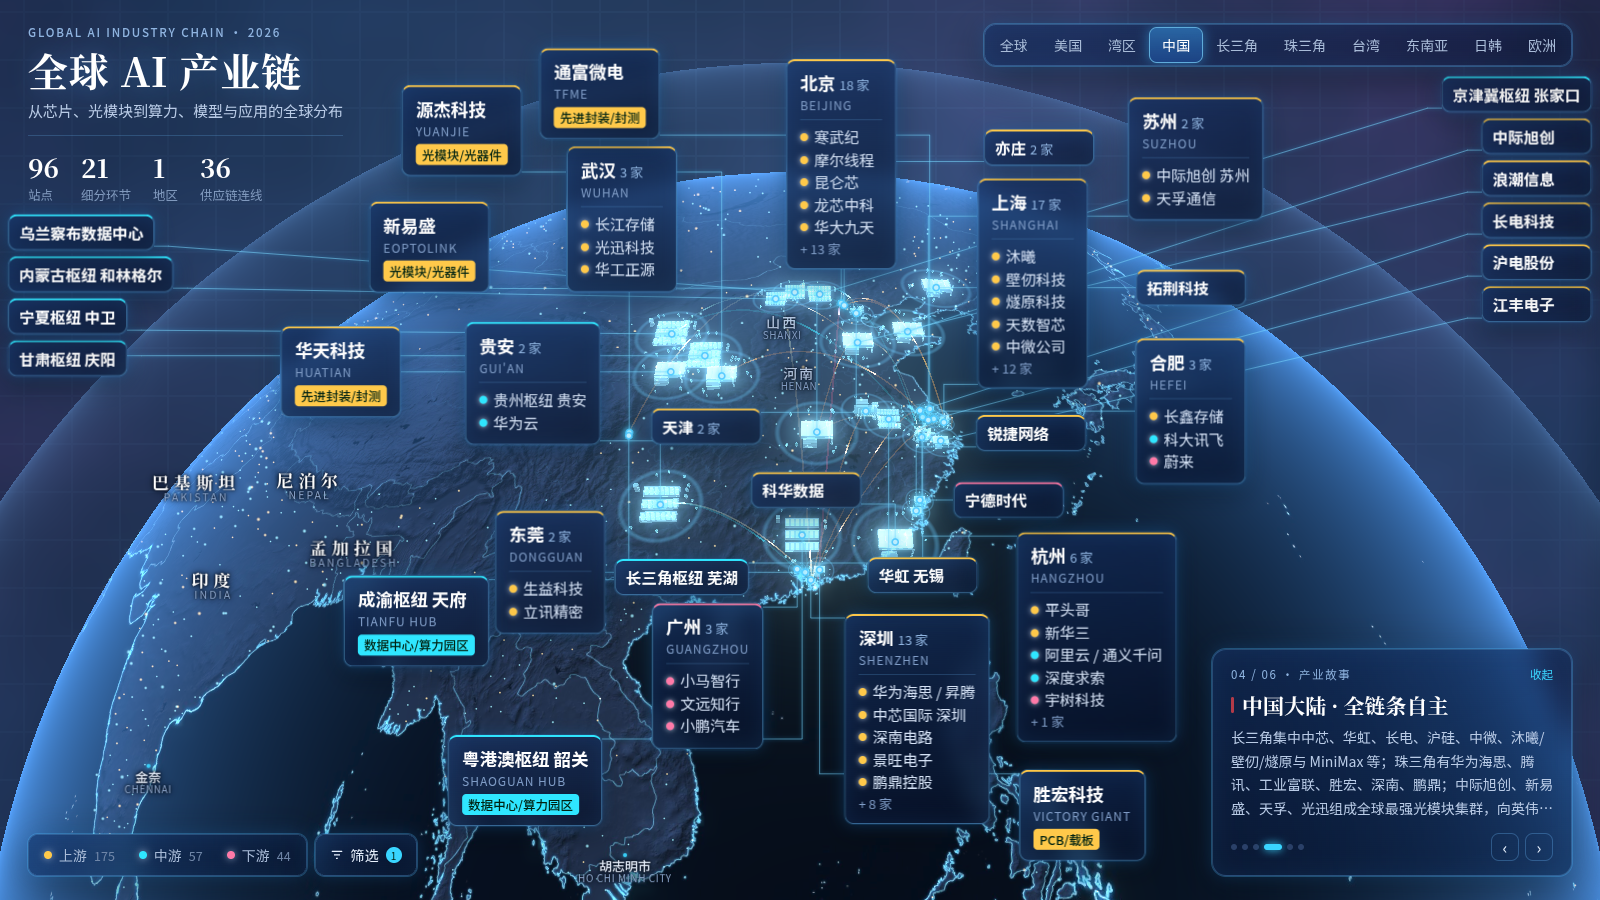
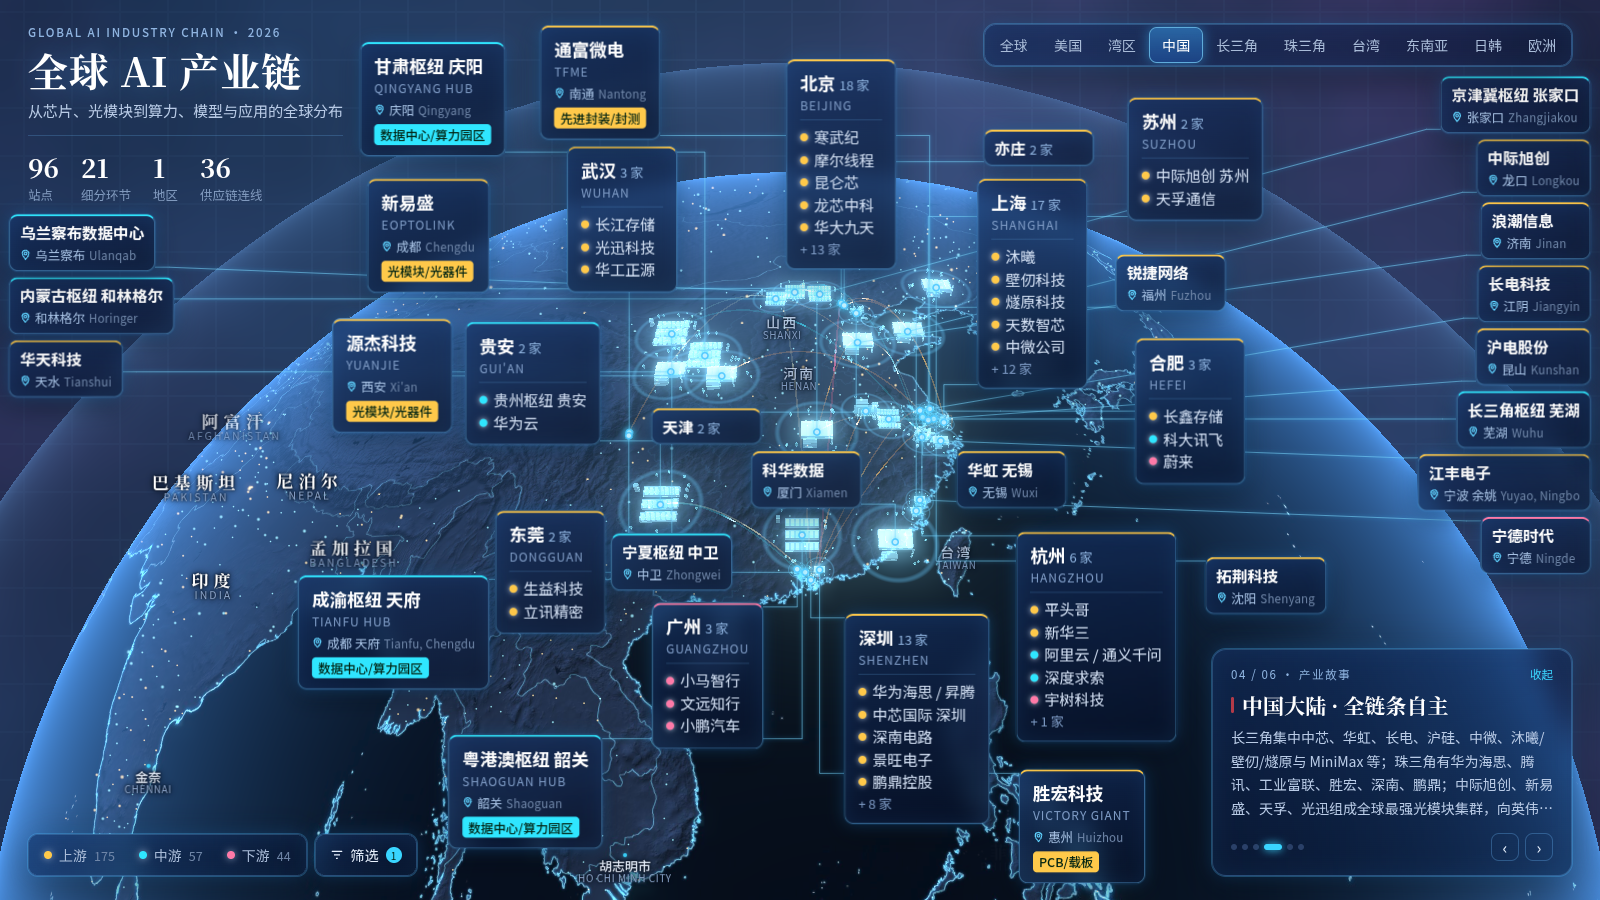
单公司卡片增加城市副标题（定位图标 + 中英文城市名），补全全部城市英文名

diff --git a/index.html b/index.html
@@ -174,6 +174,9 @@ body.drill #story{opacity:0!important;pointer-events:none}
 .pl.dl .z{color:#9fe6ff;font-size:13px;letter-spacing:.08em}.pl.dl::before{display:none}
 @media(max-width:760px){#cityPanel{left:0;right:0;top:auto;bottom:0;width:auto;max-height:30vh;border-radius:16px 16px 0 0;transform:translateY(20px)}body.drill #title{opacity:0!important}.cl.cmp{max-width:178px}.cl.cmp .h{overflow:hidden;text-overflow:ellipsis}
  body.drill #flyBtns,body.drill #dock{opacity:0!important;pointer-events:none}#cityPanel h3{font-size:20px}}
+.cl .ct{display:flex;align-items:center;gap:4px;font-size:12.5px;color:#A9C4E6;margin-top:4px;white-space:nowrap}.cl .ct span{font-size:11.5px;color:#6F86A8;letter-spacing:.02em}.cl .ct .pin{color:#5fd2ff;flex:none}
+.cl.cmp .ct{display:flex;margin-top:2px}
+#lbl .cl svg.pin{width:11px;height:11px}
 </style>
 
 </head>
@@ -460,8 +463,11 @@ function addRegionGroups(){Object.keys(REG).forEach(rg=>{const ms=markers.filter
  const g={rg,city:REG[rg],ms,n,pos:n.clone().multiplyScalar(R*1.002),el,line,dot,x:0,y:0,w:0,h:0,init:false,op:0,vis:[]};
  el.addEventListener('click',()=>{const f=REGEN[rg][2];flyTo(f);document.querySelectorAll('#flyBtns button').forEach(x=>x.classList.toggle('on',x.dataset.f===f));});
  groups.push(g);});}
-const CITY_EN={"加州 圣克拉拉": "Santa Clara", "加州 帕洛阿尔托": "Palo Alto", "加州 桑尼维尔": "Sunnyvale", "加州 圣何塞": "San Jose", "加州 旧金山": "San Francisco", "加州 山景城": "Mountain View", "加州 门洛帕克": "Menlo Park", "加州 库比蒂诺": "Cupertino", "加州 弗里蒙特": "Fremont", "加州 米尔皮塔斯": "Milpitas", "华盛顿 西雅图": "Seattle", "华盛顿 雷德蒙德": "Redmond", "得州 奥斯汀": "Austin", "亚利桑那 凤凰城": "Phoenix", "亚利桑那 钱德勒": "Chandler", "纽约州 纽约市": "New York", "弗吉尼亚 阿什本": "Ashburn", "俄亥俄 哥伦布": "Columbus", "广东 深圳": "Shenzhen", "北京": "Beijing", "北京 亦庄": "Yizhuang, Beijing", "上海": "Shanghai", "浙江 杭州": "Hangzhou", "安徽 合肥": "Hefei", "湖北 武汉": "Wuhan", "江苏 苏州": "Suzhou", "江苏 无锡": "Wuxi", "江苏 昆山": "Kunshan", "广东 东莞": "Dongguan", "广东 广州": "Guangzhou", "广东 惠州": "Huizhou", "四川 成都": "Chengdu", "天津": "Tianjin", "贵州 贵安": "Gui'an", "台湾 新竹": "Hsinchu", "台湾 台中": "Taichung", "台湾 台南": "Tainan", "台湾 高雄": "Kaohsiung", "台湾 台北": "Taipei", "台湾 桃园": "Taoyuan", "台湾 新北": "New Taipei", "马来西亚 槟城": "Penang", "泰国 大城府": "Ayutthaya", "泰国 巴真府": "Prachinburi", "泰国 春武里": "Chonburi", "越南 北江": "Bac Giang", "新加坡 兀兰": "Woodlands, Singapore", "日本 东京": "Tokyo", "韩国 平泽": "Pyeongtaek", "韩国 利川": "Icheon", "德国 德累斯顿": "Dresden", "荷兰 费尔德霍芬": "Veldhoven", "英国 伦敦": "London", "法国 巴黎": "Paris", "阿联酋 阿布扎比": "Abu Dhabi"};const REGEN={"US": ["美国", "United States", "us"], "CN": ["中国大陆", "Mainland China", "cn"], "TW": ["台湾", "Taiwan", "tw"], "SEA": ["东南亚 / 南亚", "Southeast & South Asia", "sea"], "JK": ["日本 · 韩国", "Japan & Korea", "jk"], "EU": ["欧洲", "Europe", "eu"], "ME": ["中东 / 以色列", "Middle East", "me"]};
+const CITY_EN={"加州 圣克拉拉": "Santa Clara", "加州 帕洛阿尔托": "Palo Alto", "加州 桑尼维尔": "Sunnyvale", "加州 圣何塞": "San Jose", "加州 弗里蒙特": "Fremont", "加州 米尔皮塔斯": "Milpitas", "加州 库比蒂诺": "Cupertino", "加州 圣迭戈": "San Diego", "俄勒冈 希尔斯伯勒": "Hillsboro", "爱达荷 博伊西": "Boise", "纽约州 克莱": "Clay, NY", "弗吉尼亚 马纳萨斯": "Manassas", "亚利桑那 凤凰城": "Phoenix", "亚利桑那 钱德勒": "Chandler", "新墨西哥 里奥兰乔": "Rio Rancho", "得州 达拉斯/理查森/谢尔曼": "Dallas / Richardson / Sherman", "得州 奥斯汀": "Austin", "得州 泰勒": "Taylor", "得州 朗德罗克": "Round Rock", "得州 斯普林": "Spring", "印第安纳 西拉法叶": "West Lafayette", "俄亥俄 哥伦布": "Columbus", "纽约州 马耳他": "Malta, NY", "宾州 萨克森堡": "Saxonburg", "马萨诸塞 北雷丁": "North Reading", "马萨诸塞 威尔明顿": "Wilmington", "马萨诸塞 剑桥": "Cambridge, MA", "康涅狄格 谢尔顿": "Shelton", "华盛顿 西雅图": "Seattle", "华盛顿 雷德蒙德": "Redmond", "俄勒冈 达尔斯": "The Dalles", "俄勒冈 普赖恩维尔": "Prineville", "俄勒冈 博德曼": "Boardman", "艾奥瓦 康瑟尔布拉夫斯": "Council Bluffs", "艾奥瓦 阿尔图纳": "Altoona", "俄亥俄 哥伦布地区": "Columbus area", "俄亥俄 新奥尔巴尼": "New Albany", "得州 阿比林": "Abilene", "新泽西 利文斯顿": "Livingston", "弗吉尼亚 阿什本": "Ashburn", "弗吉尼亚 阿灵顿": "Arlington", "加州 旧金山": "San Francisco", "加州 门洛帕克": "Menlo Park", "加州 山景城": "Mountain View", "纽约州 阿蒙克": "Armonk", "犹他 盐湖城": "Salt Lake City", "伊利诺伊 莫林": "Moline", "威斯康星 密尔沃基": "Milwaukee", "密歇根 底特律/迪尔伯恩": "Detroit / Dearborn", "伊利诺伊 芝加哥": "Chicago", "科罗拉多 丹佛": "Denver", "佛罗里达 阿文图拉": "Aventura", "加州 科斯塔梅萨": "Costa Mesa", "宾州 匹兹堡": "Pittsburgh", "纽约州 纽约市": "New York", "马萨诸塞 沃尔瑟姆": "Waltham", "马萨诸塞 韦斯特伯勒": "Westborough", "马萨诸塞 内蒂克": "Natick", "纽约州 康宁": "Corning", "加州 圣安娜": "Santa Ana", "康涅狄格 沃灵福德": "Wallingford", "佛罗里达 圣彼得堡": "St. Petersburg", "亚利桑那 皮奥里亚": "Peoria", "田纳西 孟菲斯": "Memphis", "蒙大拿 博兹曼": "Bozeman", "北卡 达勒姆": "Durham", "马萨诸塞 比勒里卡": "Billerica", "俄亥俄 克利夫兰(美国总部)": "Cleveland", "广东 深圳": "Shenzhen", "北京": "Beijing", "天津": "Tianjin", "上海": "Shanghai", "浙江 杭州": "Hangzhou", "辽宁 沈阳": "Shenyang", "浙江 宁波 余姚": "Yuyao, Ningbo", "北京 亦庄": "Yizhuang, Beijing", "江苏 无锡": "Wuxi", "安徽 合肥": "Hefei", "湖北 武汉": "Wuhan", "江苏 江阴": "Jiangyin", "江苏 南通": "Nantong", "甘肃 天水": "Tianshui", "广东 惠州": "Huizhou", "江苏 昆山": "Kunshan", "广东 东莞": "Dongguan", "山东 龙口": "Longkou", "江苏 苏州": "Suzhou", "四川 成都": "Chengdu", "陕西 西安": "Xi'an", "山东 济南": "Jinan", "福建 福州": "Fuzhou", "福建 厦门": "Xiamen", "河北 张家口": "Zhangjiakou", "安徽 芜湖": "Wuhu", "广东 韶关": "Shaoguan", "四川 成都 天府": "Tianfu, Chengdu", "内蒙古 和林格尔": "Horinger", "内蒙古 乌兰察布": "Ulanqab", "贵州 贵安": "Gui'an", "甘肃 庆阳": "Qingyang", "宁夏 中卫": "Zhongwei", "广东 广州": "Guangzhou", "福建 宁德": "Ningde", "台湾 新竹": "Hsinchu", "台湾 台中": "Taichung", "台湾 台南": "Tainan", "台湾 高雄": "Kaohsiung", "台湾 竹南": "Zhunan", "台湾 新北 土城": "Tucheng, New Taipei", "台湾 桃园 龟山": "Guishan, Taoyuan", "台湾 新北 汐止": "Xizhi, New Taipei", "台湾 新北": "New Taipei", "台湾 台北": "Taipei", "台湾 桃园": "Taoyuan", "台湾 桃园 芦竹": "Luzhu, Taoyuan", "马来西亚 槟城": "Penang", "马来西亚 槟城 峇六拜": "Bayan Lepas, Penang", "马来西亚 居林": "Kulim", "马来西亚 柔佛 古来": "Kulai, Johor", "马来西亚 柔佛 新山": "Johor Bahru", "新加坡 兀兰": "Woodlands, Singapore", "新加坡 白沙": "Pasir Ris, Singapore", "新加坡 裕廊西": "Jurong West, Singapore", "越南 北江": "Bac Giang", "越南 北宁 安丰": "Yen Phong, Bac Ninh", "越南 太原 安平": "Yen Binh, Thai Nguyen", "越南 北宁 安丰2C": "Yen Phong 2C, Bac Ninh", "越南 胡志明市": "Ho Chi Minh City", "越南": "Vietnam", "泰国 大城府": "Ayutthaya", "泰国 巴真府": "Prachinburi", "泰国 春武里": "Chonburi", "泰国": "Thailand", "泰国 春武里 攀通": "Phan Thong, Chonburi", "泰国 巴吞他尼/春武里": "Pathum Thani / Chonburi", "泰国 北榄 邦浦": "Bang Phli, Samut Prakan", "泰国 北榄": "Samut Prakan", "菲律宾 克拉克": "Clark", "印尼 巴淡岛": "Batam", "印度 古吉拉特 萨南德": "Sanand, Gujarat", "印度 古吉拉特 多雷拉": "Dholera, Gujarat", "印度 金奈 斯里佩鲁姆布杜尔": "Sriperumbudur, Chennai", "印度 克里希纳吉里": "Krishnagiri", "韩国 平泽": "Pyeongtaek", "韩国 华城": "Hwaseong", "韩国 利川": "Icheon", "韩国 清州": "Cheongju", "韩国 龙仁": "Yongin", "韩国 城南": "Seongnam", "日本 东京": "Tokyo", "日本 岐阜 大垣": "Ogaki, Gifu", "日本 北海道 千岁": "Chitose, Hokkaido", "日本 熊本 菊阳": "Kikuyo, Kumamoto", "荷兰 费尔德霍芬": "Veldhoven", "德国 上科亨": "Oberkochen", "德国 德累斯顿": "Dresden", "英国 剑桥": "Cambridge, UK", "英国 伦敦": "London", "法国 巴黎": "Paris", "法国 克罗尔": "Crolles", "法国 贝尔南": "Bernin", "芬兰 埃斯波": "Espoo", "德国 瓦尔多夫": "Walldorf", "法国 吕埃尔-马尔迈松": "Rueil-Malmaison", "荷兰 阿尔梅勒": "Almere", "荷兰 杜文": "Duiven", "阿联酋 阿布扎比": "Abu Dhabi", "沙特 利雅得": "Riyadh", "以色列 约克尼姆": "Yokneam", "以色列 基里亚特盖特": "Kiryat Gat", "以色列 米格达勒埃梅克": "Migdal HaEmek"};const REGEN={"US": ["美国", "United States", "us"], "CN": ["中国大陆", "Mainland China", "cn"], "TW": ["台湾", "Taiwan", "tw"], "SEA": ["东南亚 / 南亚", "Southeast & South Asia", "sea"], "JK": ["日本 · 韩国", "Japan & Korea", "jk"], "EU": ["欧洲", "Europe", "eu"], "ME": ["中东 / 以色列", "Middle East", "me"]};
 const ICONS={"算力": "<svg width=\"30\" height=\"30\" viewBox=\"0 0 32 32\" fill=\"none\" stroke=\"currentColor\" stroke-width=\"1.5\"><rect x=\"6\" y=\"5\" width=\"20\" height=\"6\" rx=\"1.5\"/><rect x=\"6\" y=\"13\" width=\"20\" height=\"6\" rx=\"1.5\"/><rect x=\"6\" y=\"21\" width=\"20\" height=\"6\" rx=\"1.5\"/><circle cx=\"10\" cy=\"8\" r=\".8\" fill=\"currentColor\"/><circle cx=\"10\" cy=\"16\" r=\".8\" fill=\"currentColor\"/><circle cx=\"10\" cy=\"24\" r=\".8\" fill=\"currentColor\"/><path d=\"M15 8h7M15 16h7M15 24h7\"/></svg>", "算法": "<svg width=\"30\" height=\"30\" viewBox=\"0 0 32 32\" fill=\"none\" stroke=\"currentColor\" stroke-width=\"1.5\"><circle cx=\"16\" cy=\"7\" r=\"3\"/><circle cx=\"7\" cy=\"24\" r=\"3\"/><circle cx=\"25\" cy=\"24\" r=\"3\"/><circle cx=\"16\" cy=\"18\" r=\"2.2\"/><path d=\"M16 10v5.8M14.3 19.4 9.3 22M17.7 19.4l5 2.6M9.6 22.3 14 9.6M22.4 22.3 18 9.6\"/></svg>", "芯片": "<svg width=\"30\" height=\"30\" viewBox=\"0 0 32 32\" fill=\"none\" stroke=\"currentColor\" stroke-width=\"1.5\"><rect x=\"8\" y=\"8\" width=\"16\" height=\"16\" rx=\"2\"/><rect x=\"12.5\" y=\"12.5\" width=\"7\" height=\"7\" rx=\"1\"/><path d=\"M12 4v4M16 4v4M20 4v4M12 24v4M16 24v4M20 24v4M4 12h4M4 16h4M4 20h4M24 12h4M24 16h4M24 20h4\"/></svg>", "数据": "<svg width=\"30\" height=\"30\" viewBox=\"0 0 32 32\" fill=\"none\" stroke=\"currentColor\" stroke-width=\"1.5\"><ellipse cx=\"16\" cy=\"7.5\" rx=\"9\" ry=\"3.5\"/><path d=\"M7 7.5v17c0 1.9 4 3.5 9 3.5s9-1.6 9-3.5v-17M7 13.2c0 1.9 4 3.5 9 3.5s9-1.6 9-3.5M7 18.9c0 1.9 4 3.5 9 3.5s9-1.6 9-3.5\"/></svg>", "应用": "<svg width=\"30\" height=\"30\" viewBox=\"0 0 32 32\" fill=\"none\" stroke=\"currentColor\" stroke-width=\"1.5\"><rect x=\"5\" y=\"5\" width=\"9\" height=\"9\" rx=\"2.5\"/><rect x=\"18\" y=\"5\" width=\"9\" height=\"9\" rx=\"2.5\"/><rect x=\"5\" y=\"18\" width=\"9\" height=\"9\" rx=\"2.5\"/><circle cx=\"22.5\" cy=\"22.5\" r=\"4.5\"/></svg>"};const CAT={"dc": "算力", "cloud": "算力", "server": "算力", "power": "算力", "net": "算力", "optic": "算力", "model": "算法", "ent": "应用", "data": "数据", "design": "芯片", "eda": "芯片", "equip": "芯片", "mat": "芯片", "foundry": "芯片", "mem": "芯片", "pkg": "芯片", "pcb": "芯片", "auto": "应用", "robot": "应用", "device": "应用", "med": "应用", "ind": "应用", "def": "应用"};
+const PIN='<svg class="pin" width="11" height="11" viewBox="0 0 12 12" fill="none" stroke="currentColor" stroke-width="1.3"><path d="M6 11s3.6-3.5 3.6-6.2A3.6 3.6 0 0 0 2.4 4.8C2.4 7.5 6 11 6 11z"/><circle cx="6" cy="4.8" r="1.3"/></svg>';
+const cityCN=c=>{const t=c.split(' ');if(t.length<2)return c;if(/^(北京|上海|天津|重庆)$/.test(t[0]))return t.join('');return t.slice(1).join(' ');};
+const cityLine=o=>`<div class="ct">${PIN}${cityCN(o.city)} <span>${CITY_EN[o.city]||''}</span></div>`;
 const hex=c=>'#'+c.getHexString();const INK={up:'#FFC94A',mid:'#2FE6FF',down:'#FF7AA8',CN:'#ff3b5c'};const ink=o=>INK[o.layer];
 function buildCards(){groups.forEach(g=>{g.vis=g.rg?markers.filter(o=>o.cty===g.rg&&visible(o)):g.comp?(drill&&drill.city===g.cityKey?g.ms.filter(visible):[]):(drill?[]:g.ms.filter(visible));if(!g.vis.length)return;
  const cnt={};g.vis.forEach(o=>cnt[o.layer]=(cnt[o.layer]||0)+1);const dom=Object.keys(cnt).sort((a,b)=>cnt[b]-cnt[a])[0];
@@ -469,7 +475,7 @@ function buildCards(){groups.forEach(g=>{g.vis=g.rg?markers.filter(o=>o.cty===g.
  const li=o=>`<li data-id="${o.id}"><i style="background:${ink(o)}"></i>${o.cn}</li>`;
  if(g.rg){const R2=REGEN[g.rg];const cc={};g.vis.forEach(o=>{const k=CAT[o.seg]||'应用';cc[k]=(cc[k]||0)+1;});const top=Object.entries(cc).sort((a,b)=>b[1]-a[1]).slice(0,3);g.el.style.borderTopColor='rgba(110,200,255,.4)';
   g.el.innerHTML=`<div class="h">${R2[0]}<small>${g.vis.length} 处</small></div><div class="e">${R2[1]}</div><div class="gbar"></div><div class="ic">${top.map(([k,n])=>`<div>${ICONS[k]}<span>${k}</span><small>${n}</small></div>`).join('')}</div>`;}
- else if(g.vis.length===1){const o=g.vis[0];g.el.innerHTML=`<div class="h">${o.cn}</div><div class="e">${o.en}</div>${g.comp&&o.dist?`<div class="ds">${o.dapprox?'≈ ':''}${o.dist}</div>`:''}<span class="sg" style="background:${ink(o)}">${o.role}</span>`;}
+ else if(g.vis.length===1){const o=g.vis[0];g.el.innerHTML=`<div class="h">${o.cn}</div><div class="e">${o.en}</div>${cityLine(o)}${g.comp&&o.dist?`<div class="ds">${o.dapprox?'≈ ':''}${o.dist}</div>`:''}<span class="sg" style="background:${ink(o)}">${o.role}</span>`;}
  else{const nm=g.city.split(' ').slice(1).join(' ')||g.city;
   g.el.innerHTML=`<div class="h">${nm}<small>${g.vis.length} 家</small></div><div class="e">${CITY_EN[g.city]||''}</div><ul>${g.vis.slice(0,5).map(li).join('')}${g.vis.length>5?`<li class="more">+ ${g.vis.length-5} 家</li>`:''}</ul>`;}
  g.el.style.transform='none';g.el.style.display='block';g.el.style.visibility='hidden';g.el.classList.remove('cmp');g.w=g.el.offsetWidth;g.h=g.el.offsetHeight;g.el.classList.add('cmp');g.cw=g.el.offsetWidth;g.ch=g.el.offsetHeight;g.el.style.visibility='';g.el.style.display='none';g.init=false;g.pl=null;layoutDirty=true;});}
